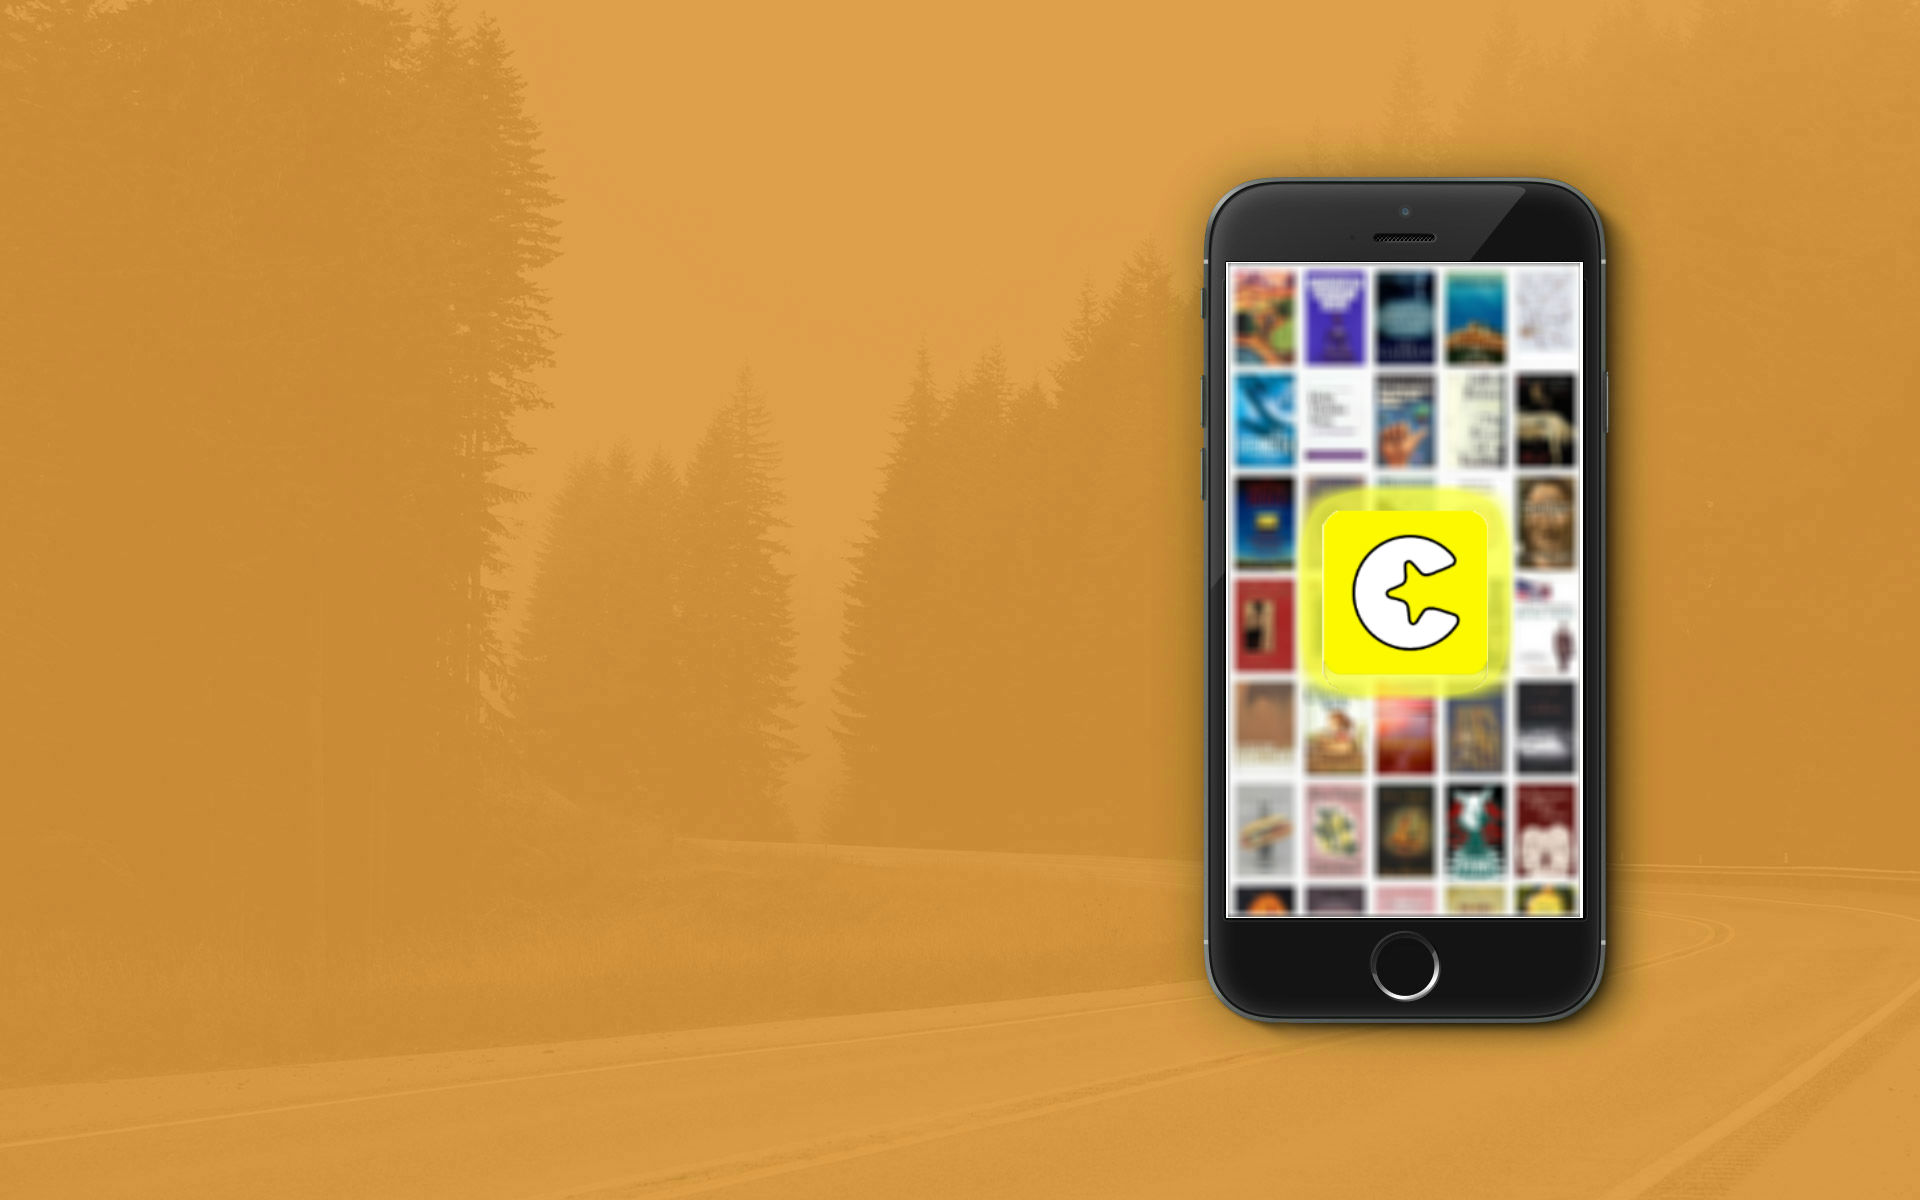
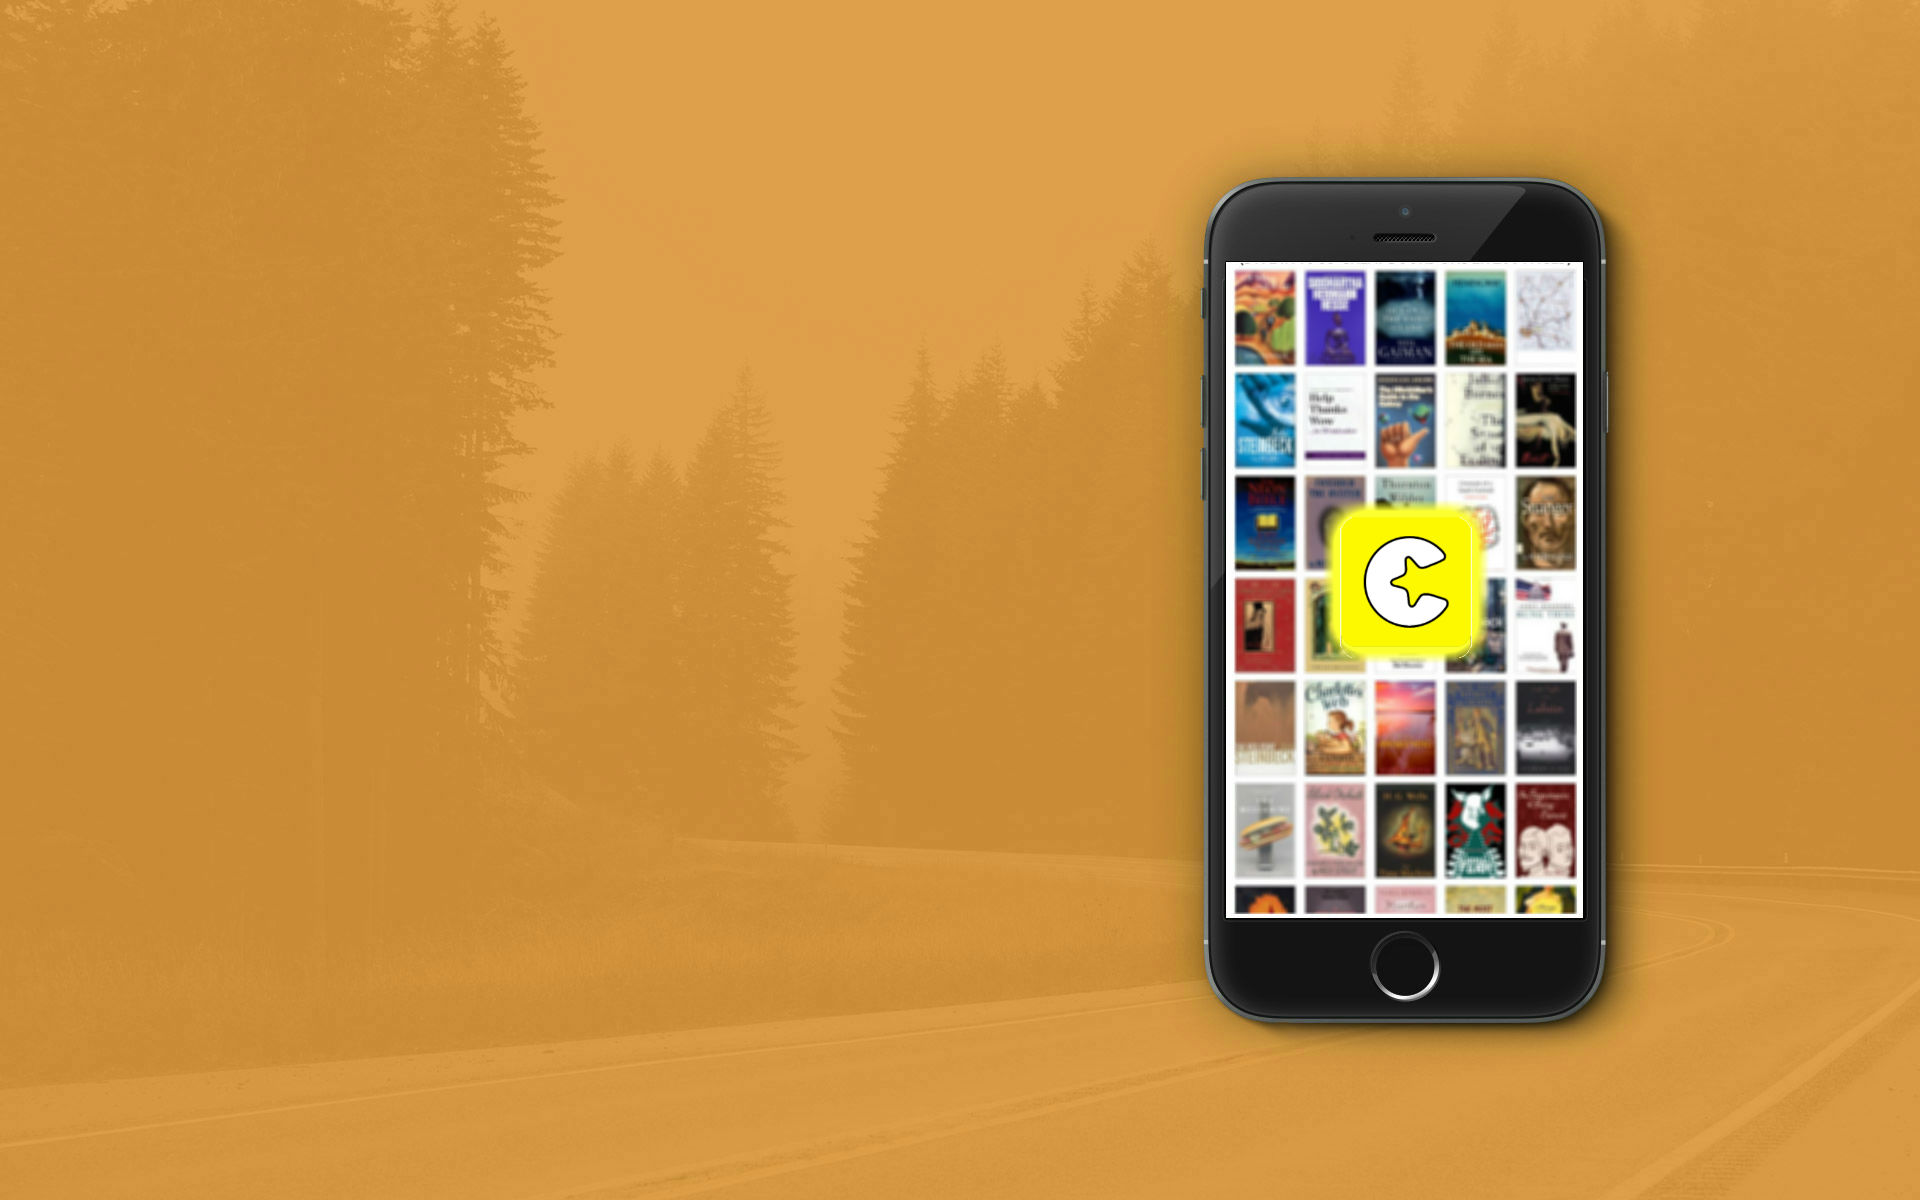
updated graph image

Changed region(s): [[0.625, 0.2158, 0.8438, 0.7708]]

diff --git a/index.html b/index.html
@@ -47,10 +47,10 @@
 	<meta name="twitter:card" value="summary">
 
 	<!-- Open Graph data -->
-	<meta property="og:title" content="Chestream | learning platform for techies" />
+	<meta property="og:title" content="Chestream.com" />
 	<meta property="og:type" content="article" />
 	<meta property="og:url" content="http://www.chestream.com" />
-	<meta property="og:image" content="http://chestream.com/img/graph.png" />
+	<meta property="og:image" content="http://chestream.com/img/promo1.png" />
 	<meta property="og:description" content="You can learn anything. For free. For everyone. Forever. JUST DO IT" />
 
 </head>
